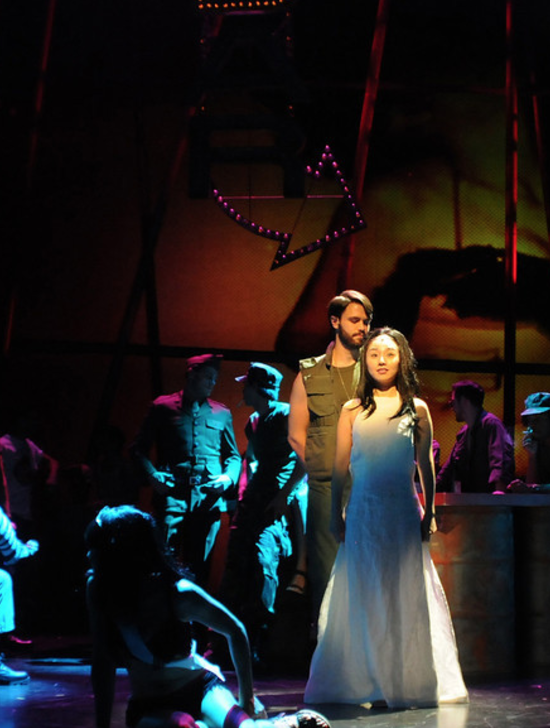
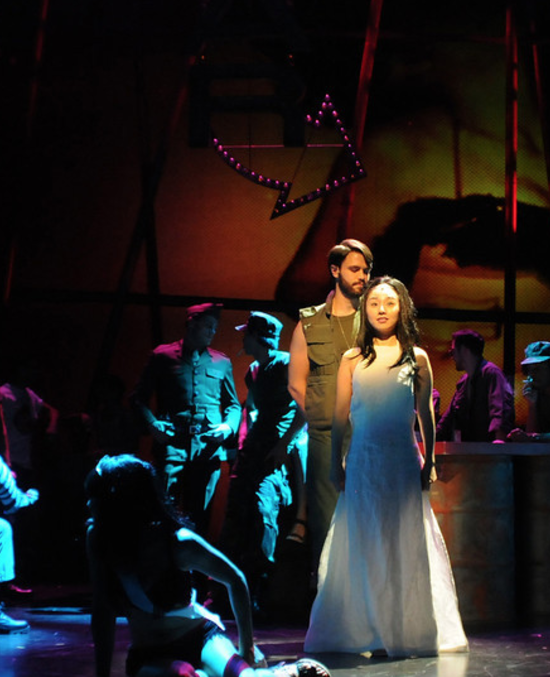
actor grid

diff --git a/actor/actor.html b/actor/actor.html
@@ -30,14 +30,8 @@
             <img src="./../public/rent.png">
           </div>
           <div class="right-top-right">
-            <div class="right-top-right-top">
               <img class="pic-left" src="./../public/saigon.png">
               <img class="pic-left" src="./../public/new_brain.png">
-              <img src="./../public/spitfire_grill.png">
-            </div>
-            <div class="right-top-right-bottom">
-              <img src="./../public/paramount.png">
-            </div>
           </div>
         </div>
         <div class="right-bottom">

diff --git a/actor/actor.css b/actor/actor.css
@@ -144,12 +144,17 @@ a {
   height: 100%;
   width: 62%;
   display: flex;
-  flex-direction: column;
+  flex-direction: row;
   justify-content: space-between;
-  align-items: center;
+  align-items: flex-start;
 }
 
-.right-top-right-top {
+.right-top-right img {
+  width: 48.5%;
+  height: 96%;
+}
+
+/*.right-top-right-top {
   height: 56%;
   width: 100%;
   display: flex;
@@ -163,7 +168,7 @@ a {
   width: 31.5%;
   box-sizing: border-box;
   /*border: 4px solid white;*/
-}
+}*/
 
 .pic-left {
   margin-right: 3%;
